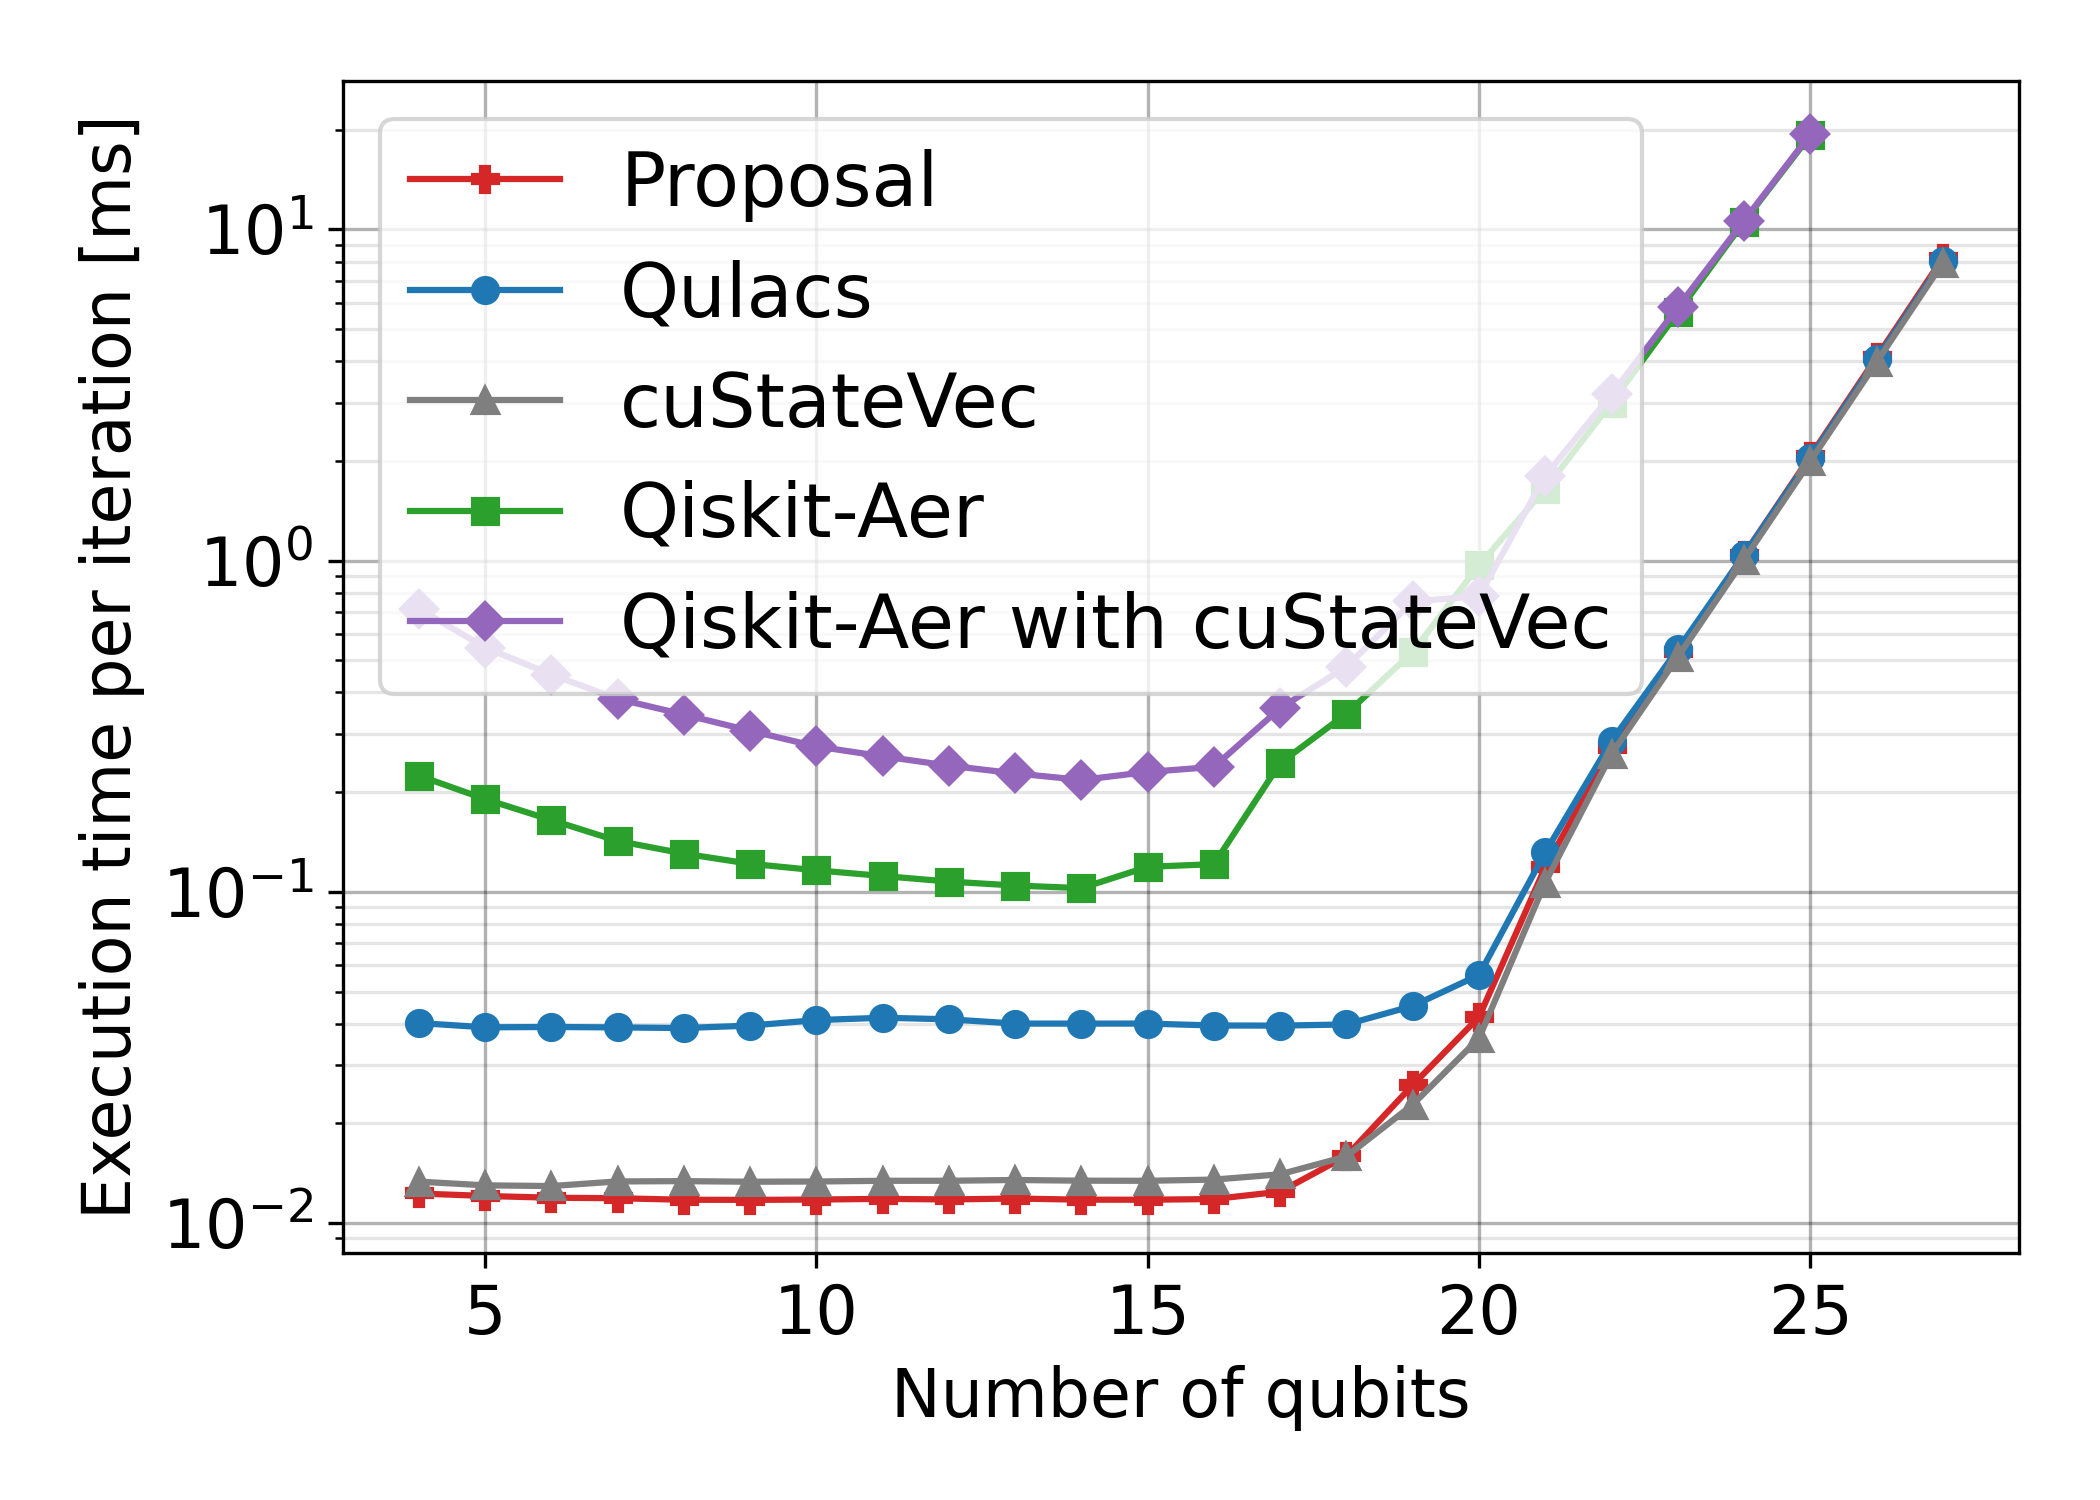
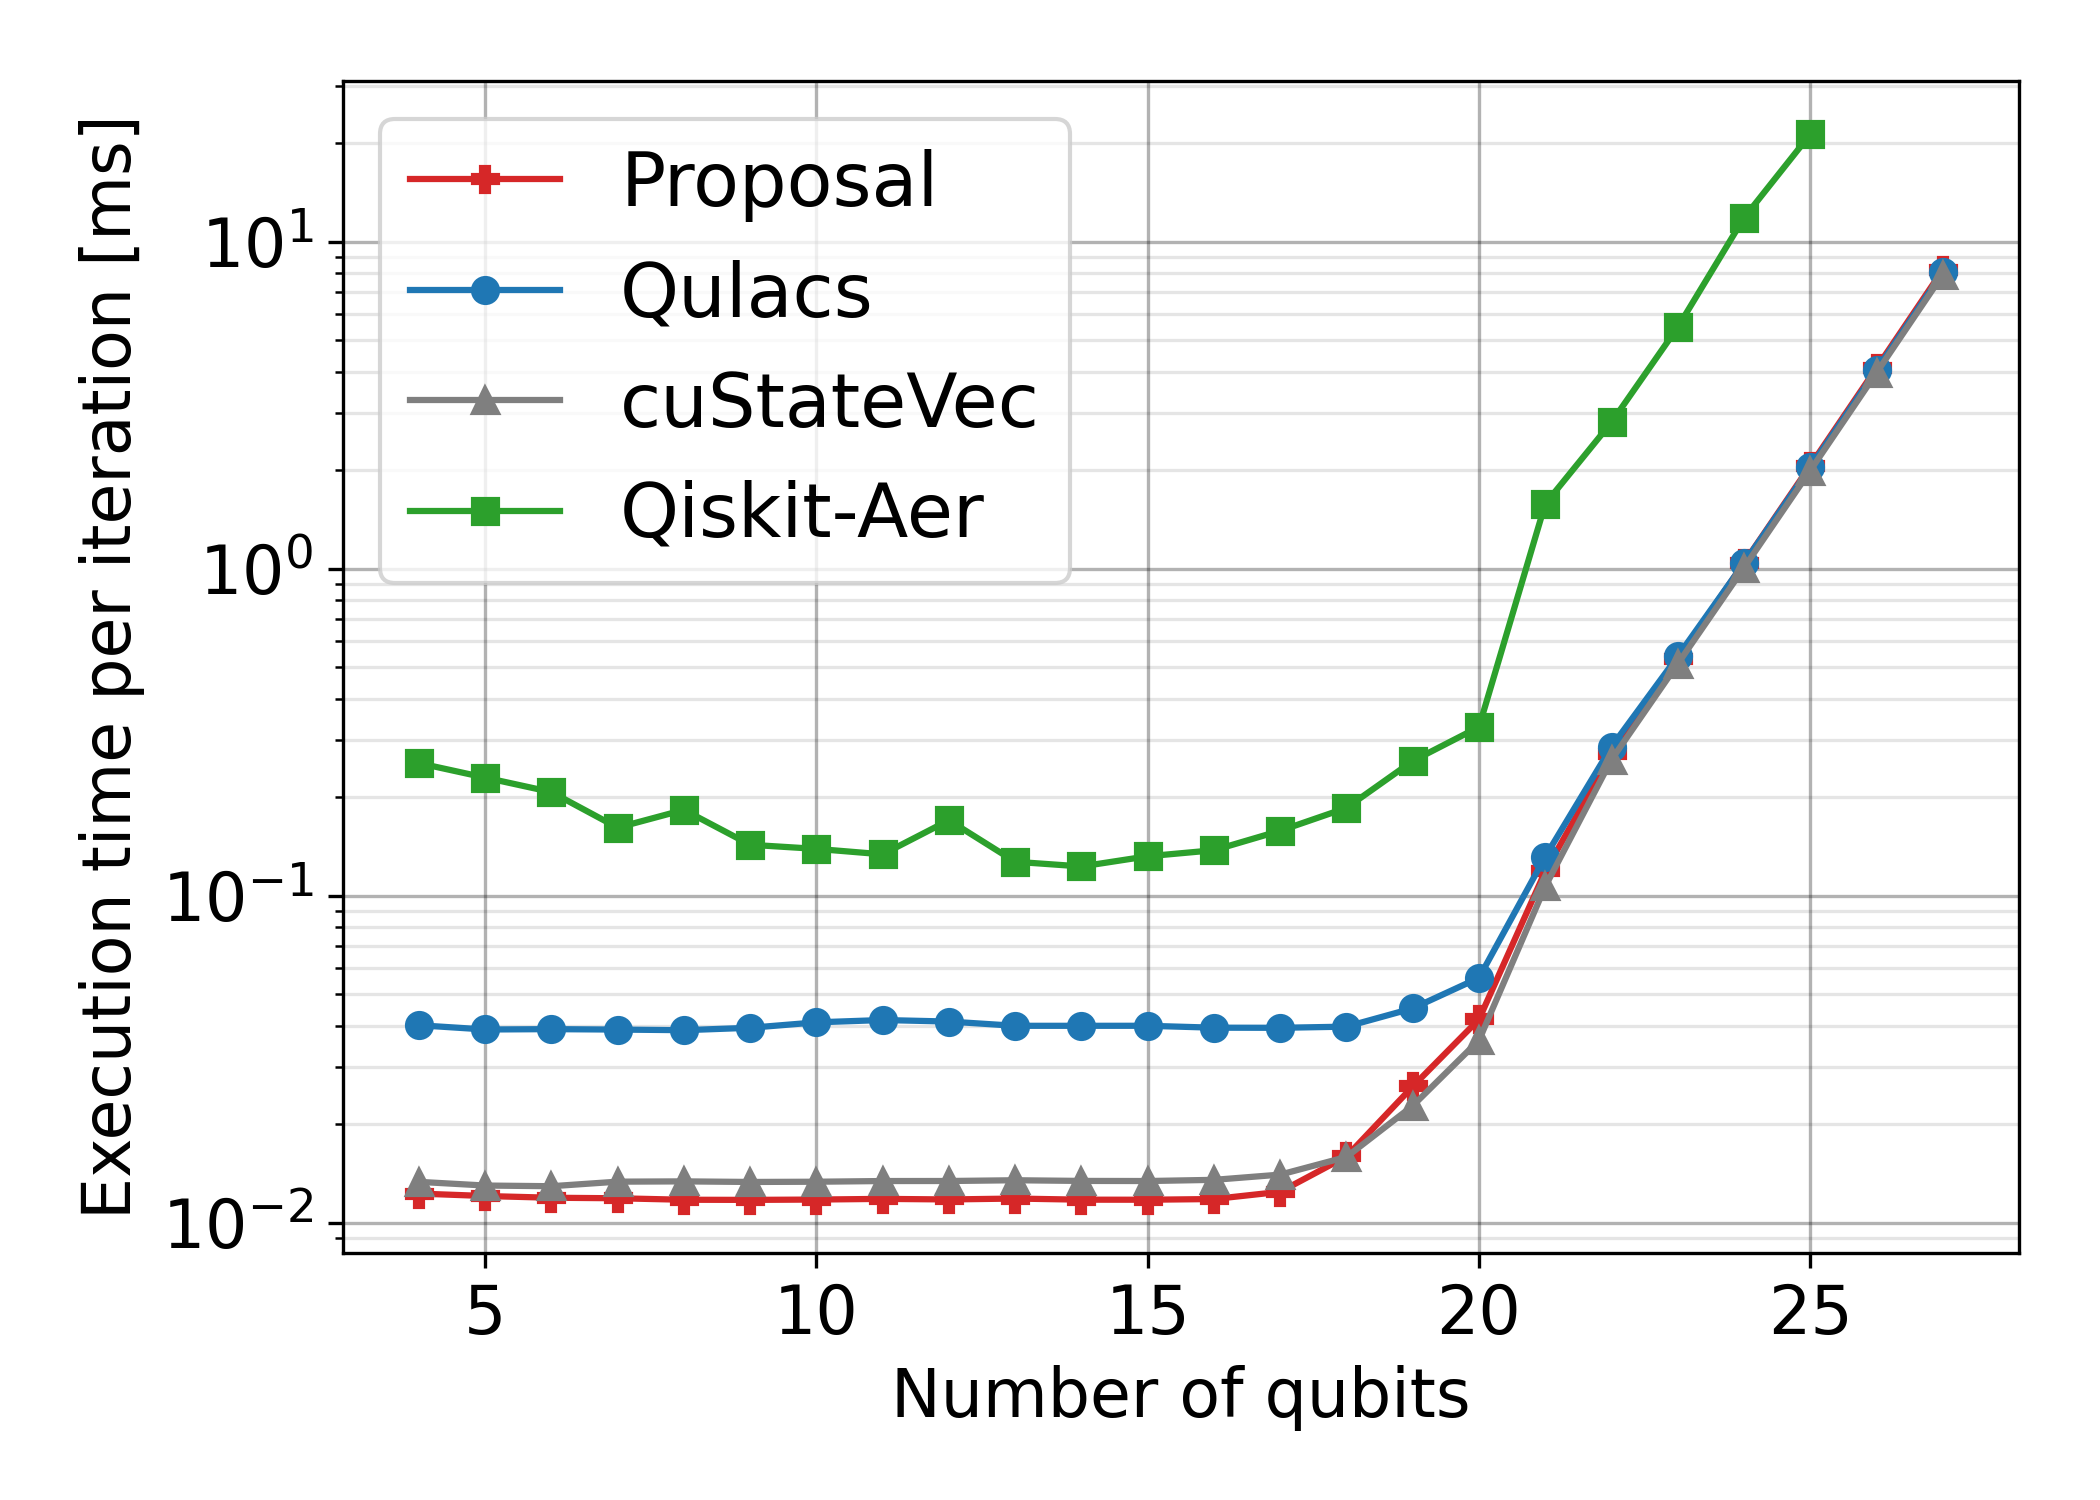
remove qiskit-aer-custatevec from result

diff --git a/benchmark/multiple-gate/gpu/plot.py b/benchmark/multiple-gate/gpu/plot.py
@@ -6,8 +6,8 @@ import os
 
 #libs = ["scaluq", "qulacs", "qiskit-aer", "qiskit-aer-custatevec", "custatevec"]
 #libnames = ["Sclauq", "Qulacs", "Qiskit-Aer", "Qiskit-Aer with cuStateVec", "cuStateVec"]
-libs = ["scaluq", "qulacs", "custatevec", "qiskit-aer", "qiskit-aer-custatevec"]
-libnames = ["Proposal", "Qulacs", "cuStateVec", "Qiskit-Aer", "Qiskit-Aer with cuStateVec"]
+libs = ["scaluq", "qulacs", "custatevec", "qiskit-aer"]
+libnames = ["Proposal", "Qulacs", "cuStateVec", "Qiskit-Aer"]
 markers = ['P', 'o', '^', 's', 'D']
 colors = ['tab:red', 'tab:blue', 'tab:gray', "tab:green", "tab:purple"]
 only_f64 = True